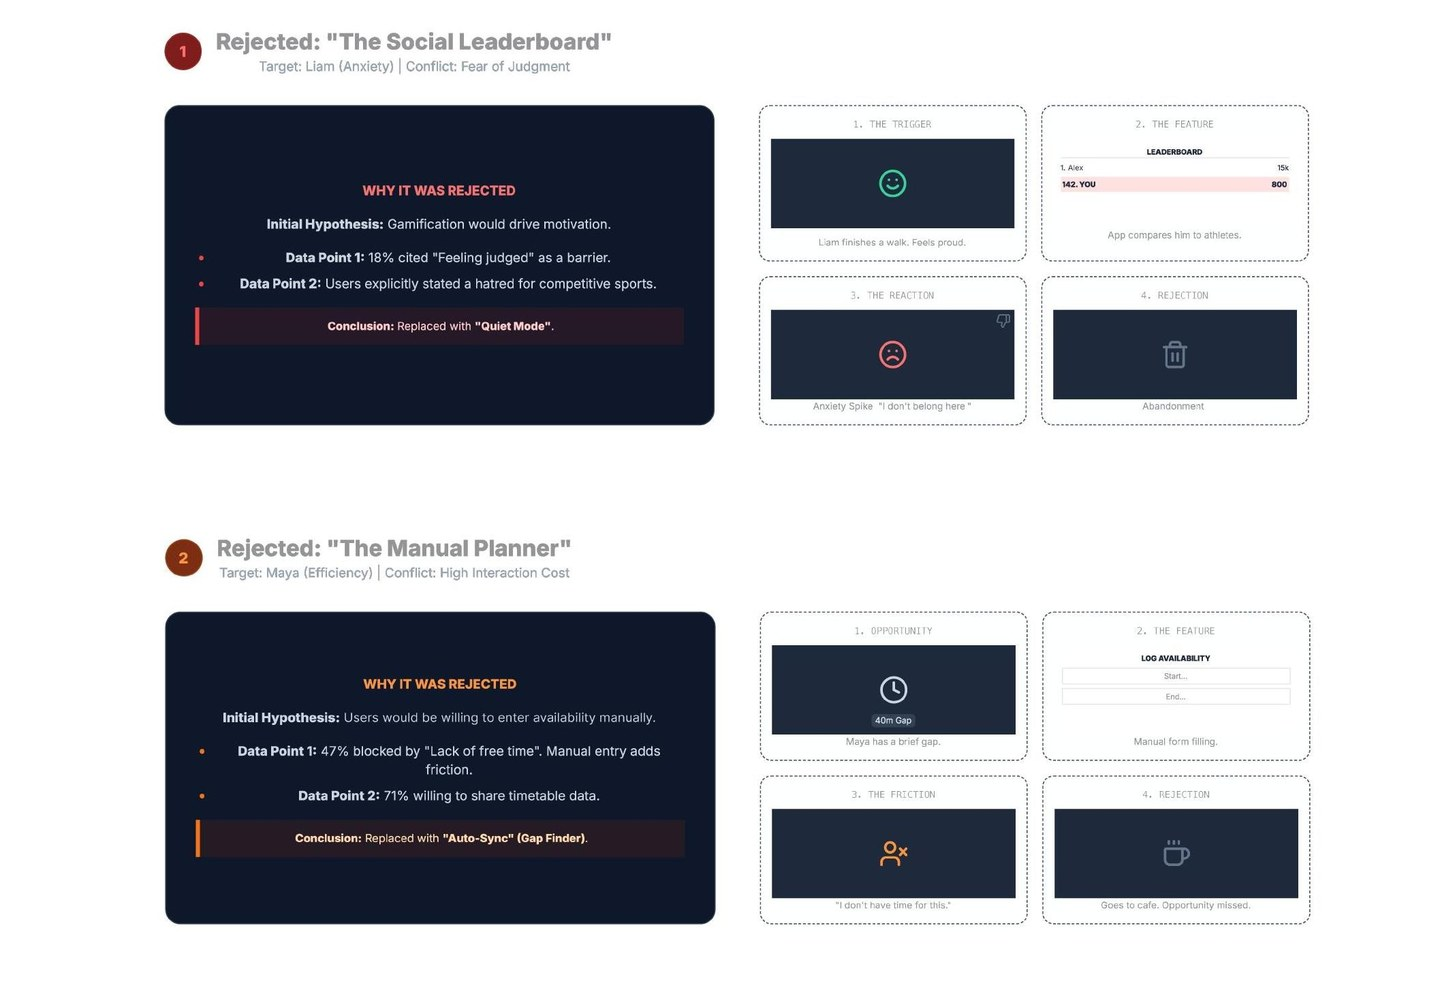
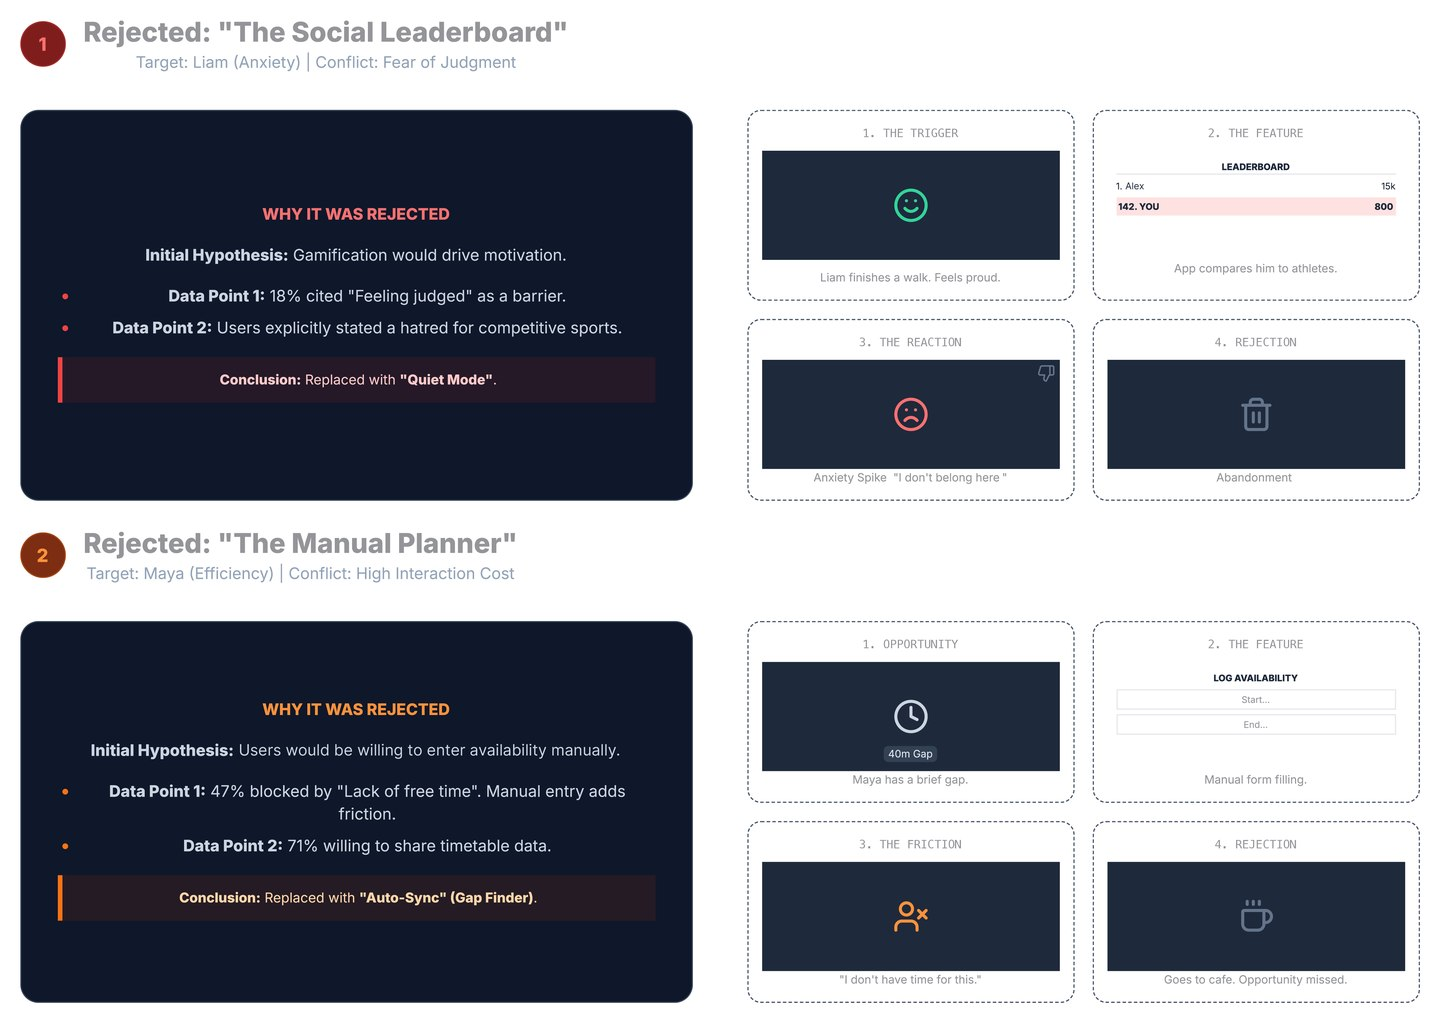
Upgrade blog images to full-quality sources, add scenario visuals

diff --git a/src/app/blog/building-move-app/page.tsx b/src/app/blog/building-move-app/page.tsx
@@ -104,6 +104,10 @@ export default function BuildingMoveAppPage() {
         giving up. Then the alternative: the app auto-syncing with her timetable, spotting the gap for her, and
         suggesting something that fits, no arithmetic required.
       </p>
+
+      {/* eslint-disable-next-line @next/next/no-img-element */}
+      <img src="/assets/images/blog/building-move-app/scenario-summaries.jpg" alt="Scenario summaries for Liam (psychological safety) and Maya (efficiency), showing problem and solution for each" />
+
       <p>
         We also ran a claims analysis, borrowing from Carroll and Rosson&apos;s method, to weigh up the
         psychological trade-offs of each feature honestly. Automating the timetable sync, for instance, reduces
@@ -113,6 +117,9 @@ export default function BuildingMoveAppPage() {
         trade-offs upfront, rather than pretending every feature is a free win, felt like the more honest way to
         design.
       </p>
+
+      {/* eslint-disable-next-line @next/next/no-img-element */}
+      <img src="/assets/images/blog/building-move-app/claims-analysis.jpg" alt="Claims analysis table weighing the positive and negative consequences of Gap Finder, Visual Proof, and Crowd Filter" />
 
       <h3>The Ideas We Killed Before They Shipped</h3>
       <p>
